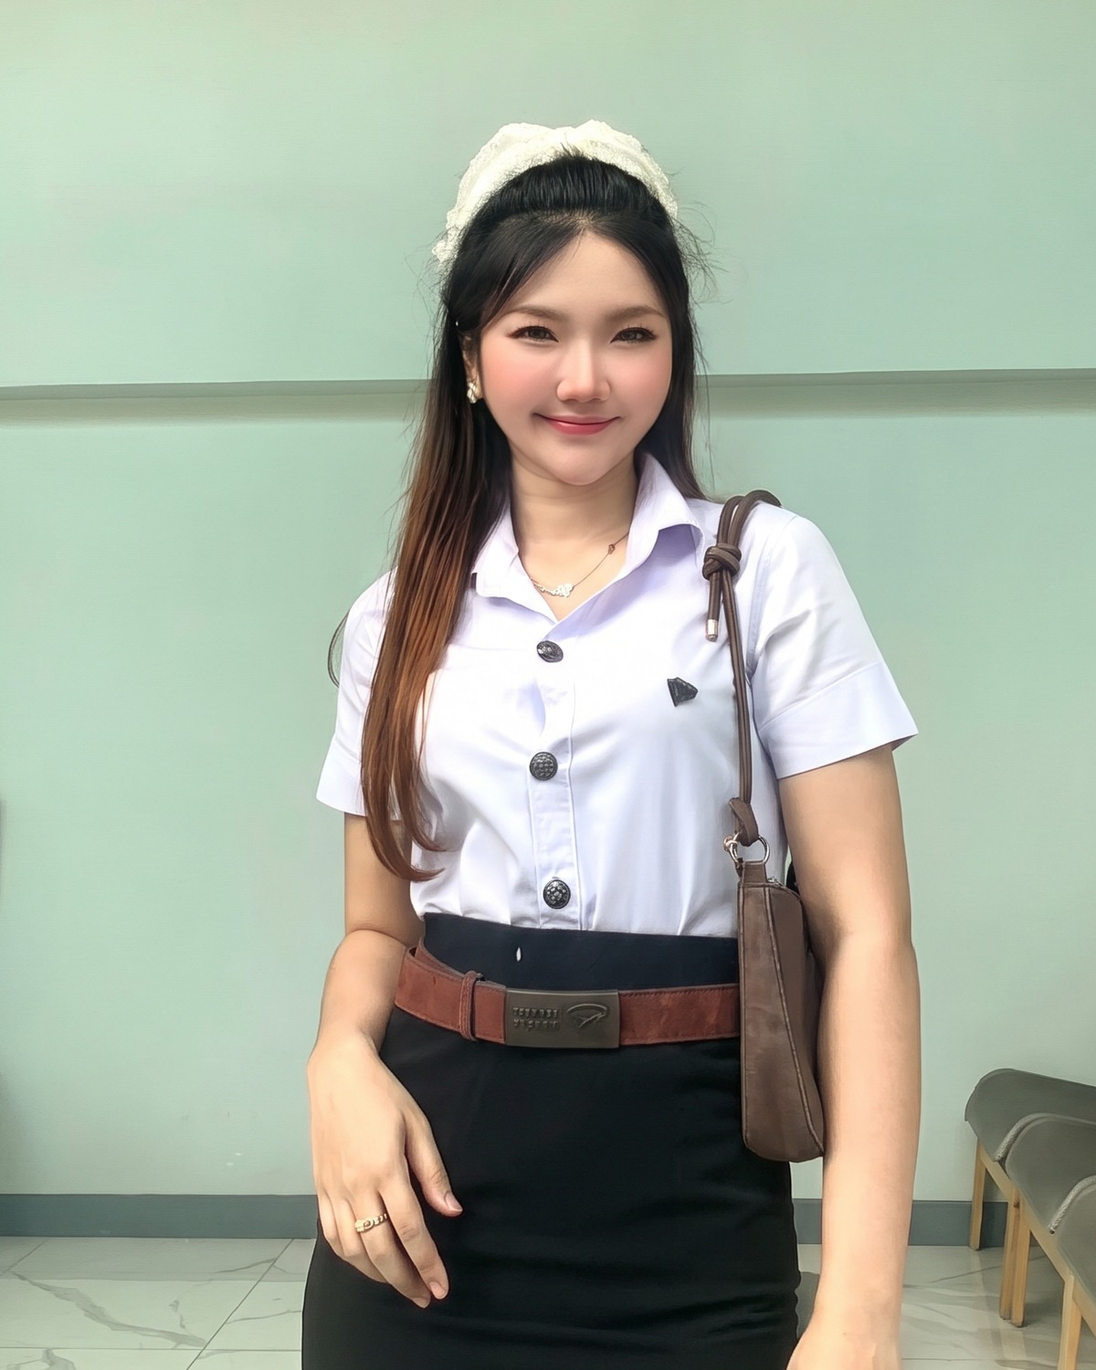
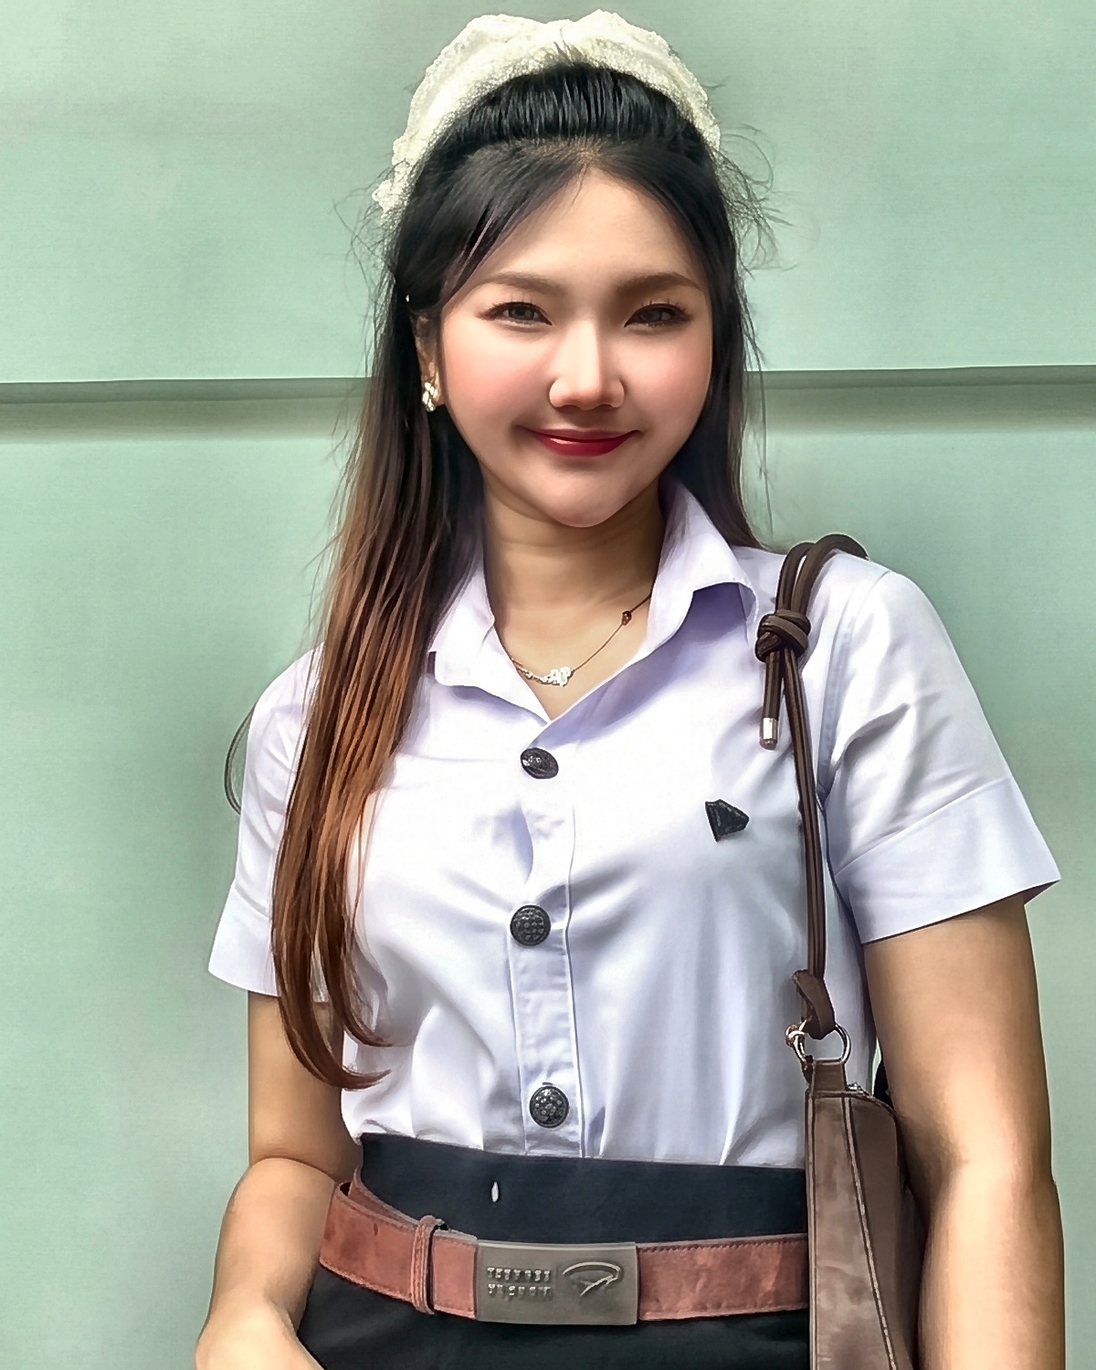
fix(timeline): align academic & project years to BU student ID 166 (2566) and upgrade profile portraits to ultra-sharp HD uniform

diff --git a/app.js b/app.js
@@ -186,11 +186,11 @@
 
       awards_subtitle: 'รางวัลแห่งความภาคภูมิใจจากเวทีประกวดระดับประเทศ (คลิกเกียรติบัตรเพื่อขยาย)',
       award1_prize: 'เงินรางวัล <b>10,000</b> บาท',
-      award1_title: 'Award of Excellence — Huawei Hub & First Generate Campaign',
-      award1_desc: 'ชนะเลิศการประกวดและเวิร์กช็อป "HUAWEI HUB" และ "HUAWEI FIRST GENERATE CAMPAIGN" ในฐานะทีมที่นำเสนอผลงานได้ดีที่สุด',
+      award1_title: 'Award of Excellence — Huawei Hub Strategic Campaign Project 2025',
+      award1_desc: 'ชนะเลิศอันดับ 1 (Best Strategic Project) การประกวดแผนงานและเวิร์กช็อป HUAWEI HUB by UFicon ร่วมกับ คณะนิเทศศาสตร์ มหาวิทยาลัยกรุงเทพ (29 พ.ย. 2568)',
       award2_prize: 'รางวัล<b>ชมเชย</b> ระดับประเทศ',
       award2_title: 'Honorable Mention — Airdog VDO Contest 2024',
-      award2_desc: 'รางวัลชมเชยการประกวดผลิตวิดีโอเครื่องฟอกอากาศ AIRDOG บนโซเชียลมีเดีย โดย NAPA SOLUTIONS CO., LTD.',
+      award2_desc: 'รางวัลชมเชยการประกวดผลิตวิดีโอเครื่องฟอกอากาศ AIRDOG บนโซเชียลมีเดีย โดย NAPA SOLUTIONS CO., LTD. (ปี 2567)',
       cert_zoom: 'คลิกเพื่อขยาย',
 
       lookbook_subtitle: 'ม่านเปิดแล้ว เลื่อนดูเล่มพอร์ตฉบับจริงทั้ง 11 หน้า — คลิกจอเพื่อดูเต็มจอ หรือใช้ปุ่มลูกศรซ้าย-ขวา',
@@ -199,18 +199,18 @@
       lb_fullscreen: 'ดูเต็มจอ',
 
       journey_subtitle: 'เส้นทางการเรียนรู้และประสบการณ์ที่สั่งสมมาจนถึงปัจจุบัน',
-      ep1_when: 'อนุบาล 1 – มัธยมศึกษาปีที่ 3',
+      ep1_when: '2551 – 2563 • อนุบาล 1 – มัธยมศึกษาปีที่ 3',
       ep1_title: 'การศึกษาขั้นพื้นฐาน & จุดเริ่มต้นความคิดสร้างสรรค์',
-      ep1_org: 'โรงเรียนบ้านนาผาง',
-      ep1_desc: 'ปูพื้นฐานการเรียนรู้ การทำกิจกรรมร่วมกับผู้อื่น และค้นพบความสนใจด้านการสื่อสารและการแสดงออก',
-      ep2_when: 'มัธยมศึกษาปีที่ 4 – 6',
+      ep1_org: 'โรงเรียนบ้านนาผาง (วิบูลยาราษฎร์สามัคคี)',
+      ep1_desc: 'ปูพื้นฐานการเรียนรู้ การทำกิจกรรมร่วมกับผู้อื่น และค้นพบความสนใจด้านการสื่อสารและการแสดงออก (เกรดเฉลี่ย 3.22)',
+      ep2_when: '2563 – 2566 • มัธยมศึกษาปีที่ 4 – 6',
       ep2_title: 'มัธยมปลาย — เริ่มจับกล้อง ตัดต่อ และกิจกรรมโรงเรียน',
       ep2_org: 'โรงเรียนปทุมราชวงศา',
-      ep2_desc: 'ฝึกฝนการถ่ายภาพ การตัดต่อวิดีโอเบื้องต้น และการทำงานเป็นทีมผ่านกิจกรรมสื่อสารของโรงเรียน',
-      ep3_when: 'ระดับปริญญาตรี • ปัจจุบัน',
+      ep2_desc: 'ฝึกฝนการถ่ายภาพ การตัดต่อวิดีโอเบื้องต้น และการทำงานเป็นทีมผ่านกิจกรรมสื่อสารของโรงเรียน (เกรดเฉลี่ย 2.51)',
+      ep3_when: '2566 – ปัจจุบัน • ปริญญาตรี (กำลังศึกษาชั้นปีที่ 3)',
       ep3_title: 'คณะนิเทศศาสตร์ — สาขาการผลิตเนื้อหาสร้างสรรค์และประสบการณ์ดิจิทัล (CDE)',
       ep3_org: 'มหาวิทยาลัยกรุงเทพ (Bangkok University)',
-      ep3_desc: 'เรียนรู้ครบวงจรทั้งการคิดคอนเทนต์ เขียนบท ถ่ายทำ ผู้ประกาศข่าว ตัดต่อ และ Generative AI พร้อมคว้ารางวัลชนะเลิศ Huawei Hub',
+      ep3_desc: 'รหัสนักศึกษา 166... เรียนรู้ครบวงจรทั้งการคิดคอนเทนต์ เขียนบท ถ่ายทำ ผู้ประกาศข่าว ตัดต่อ และ Generative AI พร้อมคว้ารางวัลชนะเลิศ Huawei Hub (เกรดเฉลี่ยสะสม 3.29)',
 
       contact_subtitle: 'พร้อมสำหรับการฝึกงาน และการร่วมงานในทุกโปรเจกต์สร้างสรรค์ค่ะ',
       cs_talent: 'นางสาว ขนิษฐา วันไชย (อ้อม)',
@@ -222,7 +222,7 @@
       cv_desc: 'เปิด Resume / CV ฉบับทางการพร้อมพิมพ์ หรือบันทึกเป็น PDF ได้ทันที',
       cv_btn: 'เปิดดู Resume / CV',
 
-      footer_copyright: '© 2024–2026 Khanittha Wanchai • Creative Content Production and Digital Experience (CDE) • School of Communication Arts, Bangkok University'
+      footer_copyright: '© 2023–2026 Khanittha Wanchai • Creative Content Production and Digital Experience (CDE) • School of Communication Arts, Bangkok University'
     },
     en: {
       nav_about: 'Director',
@@ -380,11 +380,11 @@
 
       awards_subtitle: 'National competition honors and achievements (click certificates to zoom).',
       award1_prize: 'Prize: <b>10,000</b> THB',
-      award1_title: 'Award of Excellence — Huawei Hub & First Generate Campaign',
-      award1_desc: '1st Place Winner in the HUAWEI HUB & FIRST GENERATE CAMPAIGN workshop and pitching competition for top creative presentation.',
+      award1_title: 'Award of Excellence — Huawei Hub Strategic Campaign Project 2025',
+      award1_desc: '1st Place Winner (Best Strategic Project) in the HUAWEI HUB by UFicon strategic campaign pitching with BU School of Communication Arts (Nov 2025).',
       award2_prize: 'National <b>Honorable Mention</b>',
       award2_title: 'Honorable Mention — Airdog VDO Contest 2024',
-      award2_desc: 'National Honorable Mention in the Airdog Air Purifier short-video contest by NAPA SOLUTIONS CO., LTD.',
+      award2_desc: 'National Honorable Mention in the Airdog Air Purifier short-video contest by NAPA SOLUTIONS CO., LTD. (2024).',
       cert_zoom: 'Click to Zoom',
 
       lookbook_subtitle: 'Curtain rises! Flip through all 11 pages of the official portfolio lookbook — click to view fullscreen.',
@@ -393,18 +393,18 @@
       lb_fullscreen: 'Fullscreen',
 
       journey_subtitle: 'Learning milestones and creative journey from early years to university.',
-      ep1_when: 'Kindergarten 1 – Grade 9',
+      ep1_when: '2008 – 2020 • Kindergarten 1 – Grade 9',
       ep1_title: 'Primary & Lower Secondary Education',
       ep1_org: 'Ban Naphang School',
-      ep1_desc: 'Built strong foundations in communication, group collaboration, and creative expression.',
-      ep2_when: 'Grade 10 – Grade 12',
+      ep1_desc: 'Built strong foundations in communication, group collaboration, and creative expression (GPA: 3.22).',
+      ep2_when: '2020 – 2023 • Upper Secondary (Grade 10 – 12)',
       ep2_title: 'Upper Secondary — Photography, Editing & School Media',
       ep2_org: 'Patumratchawongsa School',
-      ep2_desc: 'Developed skills in photography, video editing, and teamwork through school media activities.',
-      ep3_when: 'Bachelor’s Degree • Present',
+      ep2_desc: 'Developed skills in photography, video editing, and teamwork through school media activities (GPA: 2.51).',
+      ep3_when: '2023 – Present • Bachelor’s Degree (3rd Year)',
       ep3_title: 'School of Communication Arts — Creative Content Production & Digital Experience (CDE)',
       ep3_org: 'Bangkok University',
-      ep3_desc: 'Mastering end-to-end content production, scriptwriting, broadcast anchoring, editing, and Generative AI.',
+      ep3_desc: 'Class of 2023 (ID 166...). Mastering end-to-end content production, scriptwriting, broadcast anchoring, editing, and Generative AI (Cumulative GPAX: 3.29).',
 
       contact_subtitle: 'Open for internships, production roles, and creative collaborations.',
       cs_talent: 'Miss Khanittha Wanchai (Aom)',
@@ -416,7 +416,7 @@
       cv_desc: 'View the print-ready Resume / CV or download it as PDF.',
       cv_btn: 'View Resume / CV',
 
-      footer_copyright: '© 2024–2026 Khanittha Wanchai • Creative Content Production and Digital Experience (CDE) • School of Communication Arts, Bangkok University'
+      footer_copyright: '© 2023–2026 Khanittha Wanchai • Creative Content Production and Digital Experience (CDE) • School of Communication Arts, Bangkok University'
     }
   };
 
@@ -431,14 +431,14 @@
       'ข้อมูลส่วนตัว & ประวัติการศึกษา', 'กิจกรรมในมหาวิทยาลัย (CDE Staff & Awakening Bangkok)',
       'ผลงานในชั้นเรียน — AI Content Creation', 'ผลงานในชั้นเรียน — ผู้ประกาศข่าว & CapCut',
       'กิจกรรม — ผลงานตัดต่อวิดีโอส่วนตัว', 'เวิร์กช็อป — CDE Back to the Future & Intel AI',
-      'เกียรติบัตร — Huawei Hub 1st Place & Airdog 2024', 'ขอขอบคุณ (Thank You)'
+      'เกียรติบัตร — Huawei Hub 2025 (1st Place) & Airdog 2024', 'ขอขอบคุณ (Thank You)'
     ],
     en: [
       'Cover Page', 'Preface & Vision', 'Career Goals & Motivation',
       'Personal Profile & Education', 'Campus Life: CDE Staff & Awakening BKK',
       'Coursework: AI Content Creation', 'Coursework: News Anchor & CapCut',
       'Projects: Personal Video Showcase', 'Workshops: CDE Future & Intel AI',
-      'Awards: Huawei Hub 1st & Airdog 2024', 'Thank You & Wrap'
+      'Awards: Huawei Hub 2025 (1st Place) & Airdog 2024', 'Thank You & Wrap'
     ]
   };
 

diff --git a/resume.html b/resume.html
@@ -612,8 +612,8 @@
               </span>
             </span>
             <span class="item-date">
-              <span class="l-th">2565 – ปัจจุบัน</span>
-              <span class="l-en">2022 – Present</span>
+              <span class="l-th">2566 – ปัจจุบัน</span>
+              <span class="l-en">2023 – Present</span>
             </span>
           </div>
           <div class="item-subtitle l-th">ปริญญาตรี นิเทศศาสตรบัณฑิต (นศ.บ.) • คณะนิเทศศาสตร์</div>
@@ -642,6 +642,10 @@
                 <span class="l-en">Patumratchawongsa School</span>
                 <span class="badge-pill">GPAX: 2.51</span>
               </span>
+              <span class="item-date">
+                <span class="l-th">2563 – 2566</span>
+                <span class="l-en">2020 – 2023</span>
+              </span>
             </div>
             <div class="item-subtitle l-th">มัธยมศึกษาตอนปลาย (ม.4 – ม.6)</div>
             <div class="item-subtitle l-en">Upper Secondary Education (Grade 10 – 12)</div>
@@ -658,6 +662,10 @@
                 <span class="l-th">โรงเรียนบ้านนาผาง</span>
                 <span class="l-en">Ban Naphang School</span>
                 <span class="badge-pill">GPAX: 3.22</span>
+              </span>
+              <span class="item-date">
+                <span class="l-th">2551 – 2563</span>
+                <span class="l-en">2008 – 2020</span>
               </span>
             </div>
             <div class="item-subtitle l-th">อนุบาล 1 – มัธยมศึกษาปีที่ 3</div>
@@ -678,21 +686,21 @@
       <div class="item">
         <div class="item-head">
           <span class="item-title">
-            <span class="l-th">รางวัลชนะเลิศอันดับ 1 (Award of Excellence) — Huawei Hub & First Generate Campaign</span>
-            <span class="l-en">1st Place / Award of Excellence — Huawei Hub & First Generate Campaign</span>
+            <span class="l-th">รางวัลชนะเลิศอันดับ 1 (Award of Excellence) — Huawei Hub Strategic Campaign Project 2025</span>
+            <span class="l-en">1st Place / Award of Excellence — Huawei Hub Strategic Campaign Project 2025</span>
           </span>
           <span class="item-date">
-            <span class="l-th">2567</span>
-            <span class="l-en">2024</span>
+            <span class="l-th">2568</span>
+            <span class="l-en">2025</span>
           </span>
         </div>
-        <div class="item-subtitle l-th">โครงการประกวดแผนงานและผลิตวิดีโอคอนเทนต์ดิจิทัล จัดโดย บริษัท หัวเว่ย เทคโนโลยี่ (ประเทศไทย) จํากัด</div>
-        <div class="item-subtitle l-en">Digital Video Content & Campaign Pitch Competition organized by Huawei Technologies (Thailand) Co., Ltd.</div>
+        <div class="item-subtitle l-th">โครงการประกวดแผนงานกลยุทธ์และผลิตวิดีโอคอนเทนต์ดิจิทัล จัดโดย HUAWEI Hub by UFicon ร่วมกับ คณะนิเทศศาสตร์ มหาวิทยาลัยกรุงเทพ (29 พฤศจิกายน 2568)</div>
+        <div class="item-subtitle l-en">Digital Strategy & Video Campaign Competition organized by HUAWEI Hub by UFicon in collaboration with School of Communication Arts, Bangkok University (November 2025)</div>
         <div class="item-desc l-th">
-          นำเสนอแนวคิดแคมเปญ วางสตอรี่บอร์ด ผลิตวิดีโอคลิป และพิชชิ่งงาน (Pitching) ต่อหน้าคณะกรรมการ ได้รับรางวัลชนะเลิศอันดับ 1 พร้อมเงินรางวัลทีม 10,000 บาท
+          นำเสนอแนวคิดแคมเปญ วางสตอรี่บอร์ด ผลิตวิดีโอคลิป และพิชชิ่งงาน (Pitching) ต่อหน้าคณะกรรมการ ได้รับรางวัลชนะเลิศอันดับ 1 (Best Strategic Project) พร้อมเงินรางวัลทีม 10,000 บาท
         </div>
         <div class="item-desc l-en">
-          Spearheaded creative strategy, storyboard design, video production, and pitched directly to executive judges. Secured 1st place nationwide along with a 10,000 THB team grant.
+          Spearheaded creative strategy, storyboard design, video production, and pitched directly to executive judges. Secured 1st place (Best Strategic Project) along with a 10,000 THB team grant.
         </div>
       </div>
 
@@ -707,8 +715,8 @@
             <span class="l-en">2024</span>
           </span>
         </div>
-        <div class="item-subtitle l-th">การประกวดแข่งขันผลิตเนื้อหาวิดีโอสั้นบนโซเชียลมีเดีย จัดโดย NAPA SOLUTIONS CO., LTD.</div>
-        <div class="item-subtitle l-en">National Short-Form Video Content Competition organized by NAPA SOLUTIONS CO., LTD.</div>
+        <div class="item-subtitle l-th">การประกวดแข่งขันผลิตเนื้อหาวิดีโอสั้นบนโซเชียลมีเดีย จัดโดย NAPA SOLUTIONS CO., LTD. (ปี 2024)</div>
+        <div class="item-subtitle l-en">National Short-Form Video Content Competition organized by NAPA SOLUTIONS CO., LTD. (2024)</div>
         <div class="item-desc l-th">
           เขียนบท ตัดต่อ และออกแบบจังหวะภาพเพื่อนำเสนอคุณสมบัติเครื่องฟอกอากาศ AIRDOG ในรูปแบบคลิปสั้นร่วมสมัย
         </div>
@@ -799,6 +807,25 @@
         </div>
         <div class="item-desc l-en">
           Hands-on intensive masterclass exploring generative AI acceleration for video, motion design, and computer vision workflows with Intel technical specialists.
+        </div>
+      </div>
+
+      <div class="item">
+        <div class="item-head">
+          <span class="item-title">
+            <span class="l-th">กิจกรรมสร้างสรรค์สาขา CDE (Back to the Future) & ชมรมถ่ายภาพ ม.กรุงเทพ (รุ่น 47)</span>
+            <span class="l-en">CDE Creative Activities (Back to the Future) & BU Photography Club (Batch 47)</span>
+          </span>
+          <span class="item-date">
+            <span class="l-th">2566 – 2567</span>
+            <span class="l-en">2023 – 2024</span>
+          </span>
+        </div>
+        <div class="item-desc l-th">
+          เข้าร่วมกิจกรรมสานสัมพันธ์และแลกเปลี่ยนแนวคิดสร้างสรรค์ในโครงการ CDE Back to the Future พร้อมทั้งฝึกปฏิบัติการถ่ายภาพ Portrait และ Event ร่วมกับชมรมถ่ายภาพ มหาวิทยาลัยกรุงเทพ รุ่น 47
+        </div>
+        <div class="item-desc l-en">
+          Participated in creative networking workshops at CDE Back to the Future and practiced portrait and event photography with Bangkok University Photography Club (Batch 47).
         </div>
       </div>
     </section>

diff --git a/index.html b/index.html
@@ -186,7 +186,7 @@
           <div class="kicker">
             <span class="kicker-dot"></span>
             <span>COMM ARTS • CDE • BANGKOK UNIVERSITY</span>
-            <span class="kicker-year">ARCHIVE 2022—2026</span>
+            <span class="kicker-year">ARCHIVE 2023—2026</span>
           </div>
           <h1 class="hero-title">
             <span class="l1 glitch" data-split>Storyteller</span>
@@ -900,11 +900,11 @@
       <div class="award-grid">
         <div class="award" data-reveal="zoom">
           <div class="laurel"><svg viewBox="0 0 300 200"><use href="#laurel"/></svg>
-            <div class="lt"><small>OFFICIAL WINNER</small><b>1ST PLACE</b><span>HUAWEI HUB</span></div></div>
+            <div class="lt"><small>OFFICIAL WINNER</small><b>1ST PLACE</b><span>HUAWEI HUB 2025</span></div></div>
           <div class="prize" data-i18n="award1_prize">เงินรางวัล <b>10,000</b> บาท</div>
-          <h3 data-i18n="award1_title">Award of Excellence — Huawei Hub &amp; First Generate Campaign</h3>
-          <p data-i18n="award1_desc">ชนะเลิศการประกวดและเวิร์กช็อป "HUAWEI HUB" และ "HUAWEI FIRST GENERATE CAMPAIGN" ในฐานะทีมที่นำเสนอผลงานได้ดีที่สุด</p>
-          <button class="cert" type="button" data-lightbox="assets/cert-huawei-fixed.jpg" data-caption="เกียรติบัตรชนะเลิศอันดับ 1 — HUAWEI HUB &amp; FIRST GENERATE CAMPAIGN">
+          <h3 data-i18n="award1_title">Award of Excellence — Huawei Hub Strategic Campaign Project 2025</h3>
+          <p data-i18n="award1_desc">ชนะเลิศอันดับ 1 (Best Strategic Project) การประกวดแผนงานและเวิร์กช็อป HUAWEI HUB by UFicon ร่วมกับ คณะนิเทศศาสตร์ มหาวิทยาลัยกรุงเทพ (29 พ.ย. 2568)</p>
+          <button class="cert" type="button" data-lightbox="assets/cert-huawei-fixed.jpg" data-caption="เกียรติบัตรชนะเลิศอันดับ 1 — HUAWEI Hub Strategic Campaign Project 2025">
             <img src="assets/cert-huawei-fixed.jpg" alt="เกียรติบัตร Huawei Hub" loading="lazy">
             <span class="zoom"><svg width="13" height="13"><use href="#ico-expand"/></svg> <span data-i18n="cert_zoom">ขยายภาพ</span></span>
           </button>
@@ -1032,7 +1032,7 @@
           </div>
           <div class="ep-progress"><i></i></div>
           <div class="ep-body">
-            <div class="when" data-i18n="ep3_when">2565 — ปัจจุบัน (ปริญญาตรี)</div>
+            <div class="when" data-i18n="ep3_when">2566 – ปัจจุบัน • ปริญญาตรี (กำลังศึกษาชั้นปีที่ 3)</div>
             <h3 data-i18n="ep3_title">The Main Plot: นักศึกษานิเทศศาสตร์ CDE</h3>
             <div class="org" data-i18n="ep3_org">มหาวิทยาลัยกรุงเทพ — คณะนิเทศศาสตร์</div>
             <p data-i18n="ep3_desc">สาขาการผลิตเนื้อหาสร้างสรรค์และประสบการณ์ดิจิทัล (Creative Content Production and Digital Experience)</p>
@@ -1165,7 +1165,7 @@
       </div>
       <div class="the-end">The End.</div>
       <div class="wrap-line">…OR THE BEGINNING?</div>
-      <p class="copyright" data-i18n="footer_copyright">© 2024–2026 Khanittha Wanchai • Creative Content Production and Digital Experience (CDE) • School of Communication Arts, Bangkok University</p>
+      <p class="copyright" data-i18n="footer_copyright">© 2023–2026 Khanittha Wanchai • Creative Content Production and Digital Experience (CDE) • School of Communication Arts, Bangkok University</p>
     </div>
   </footer>
 
